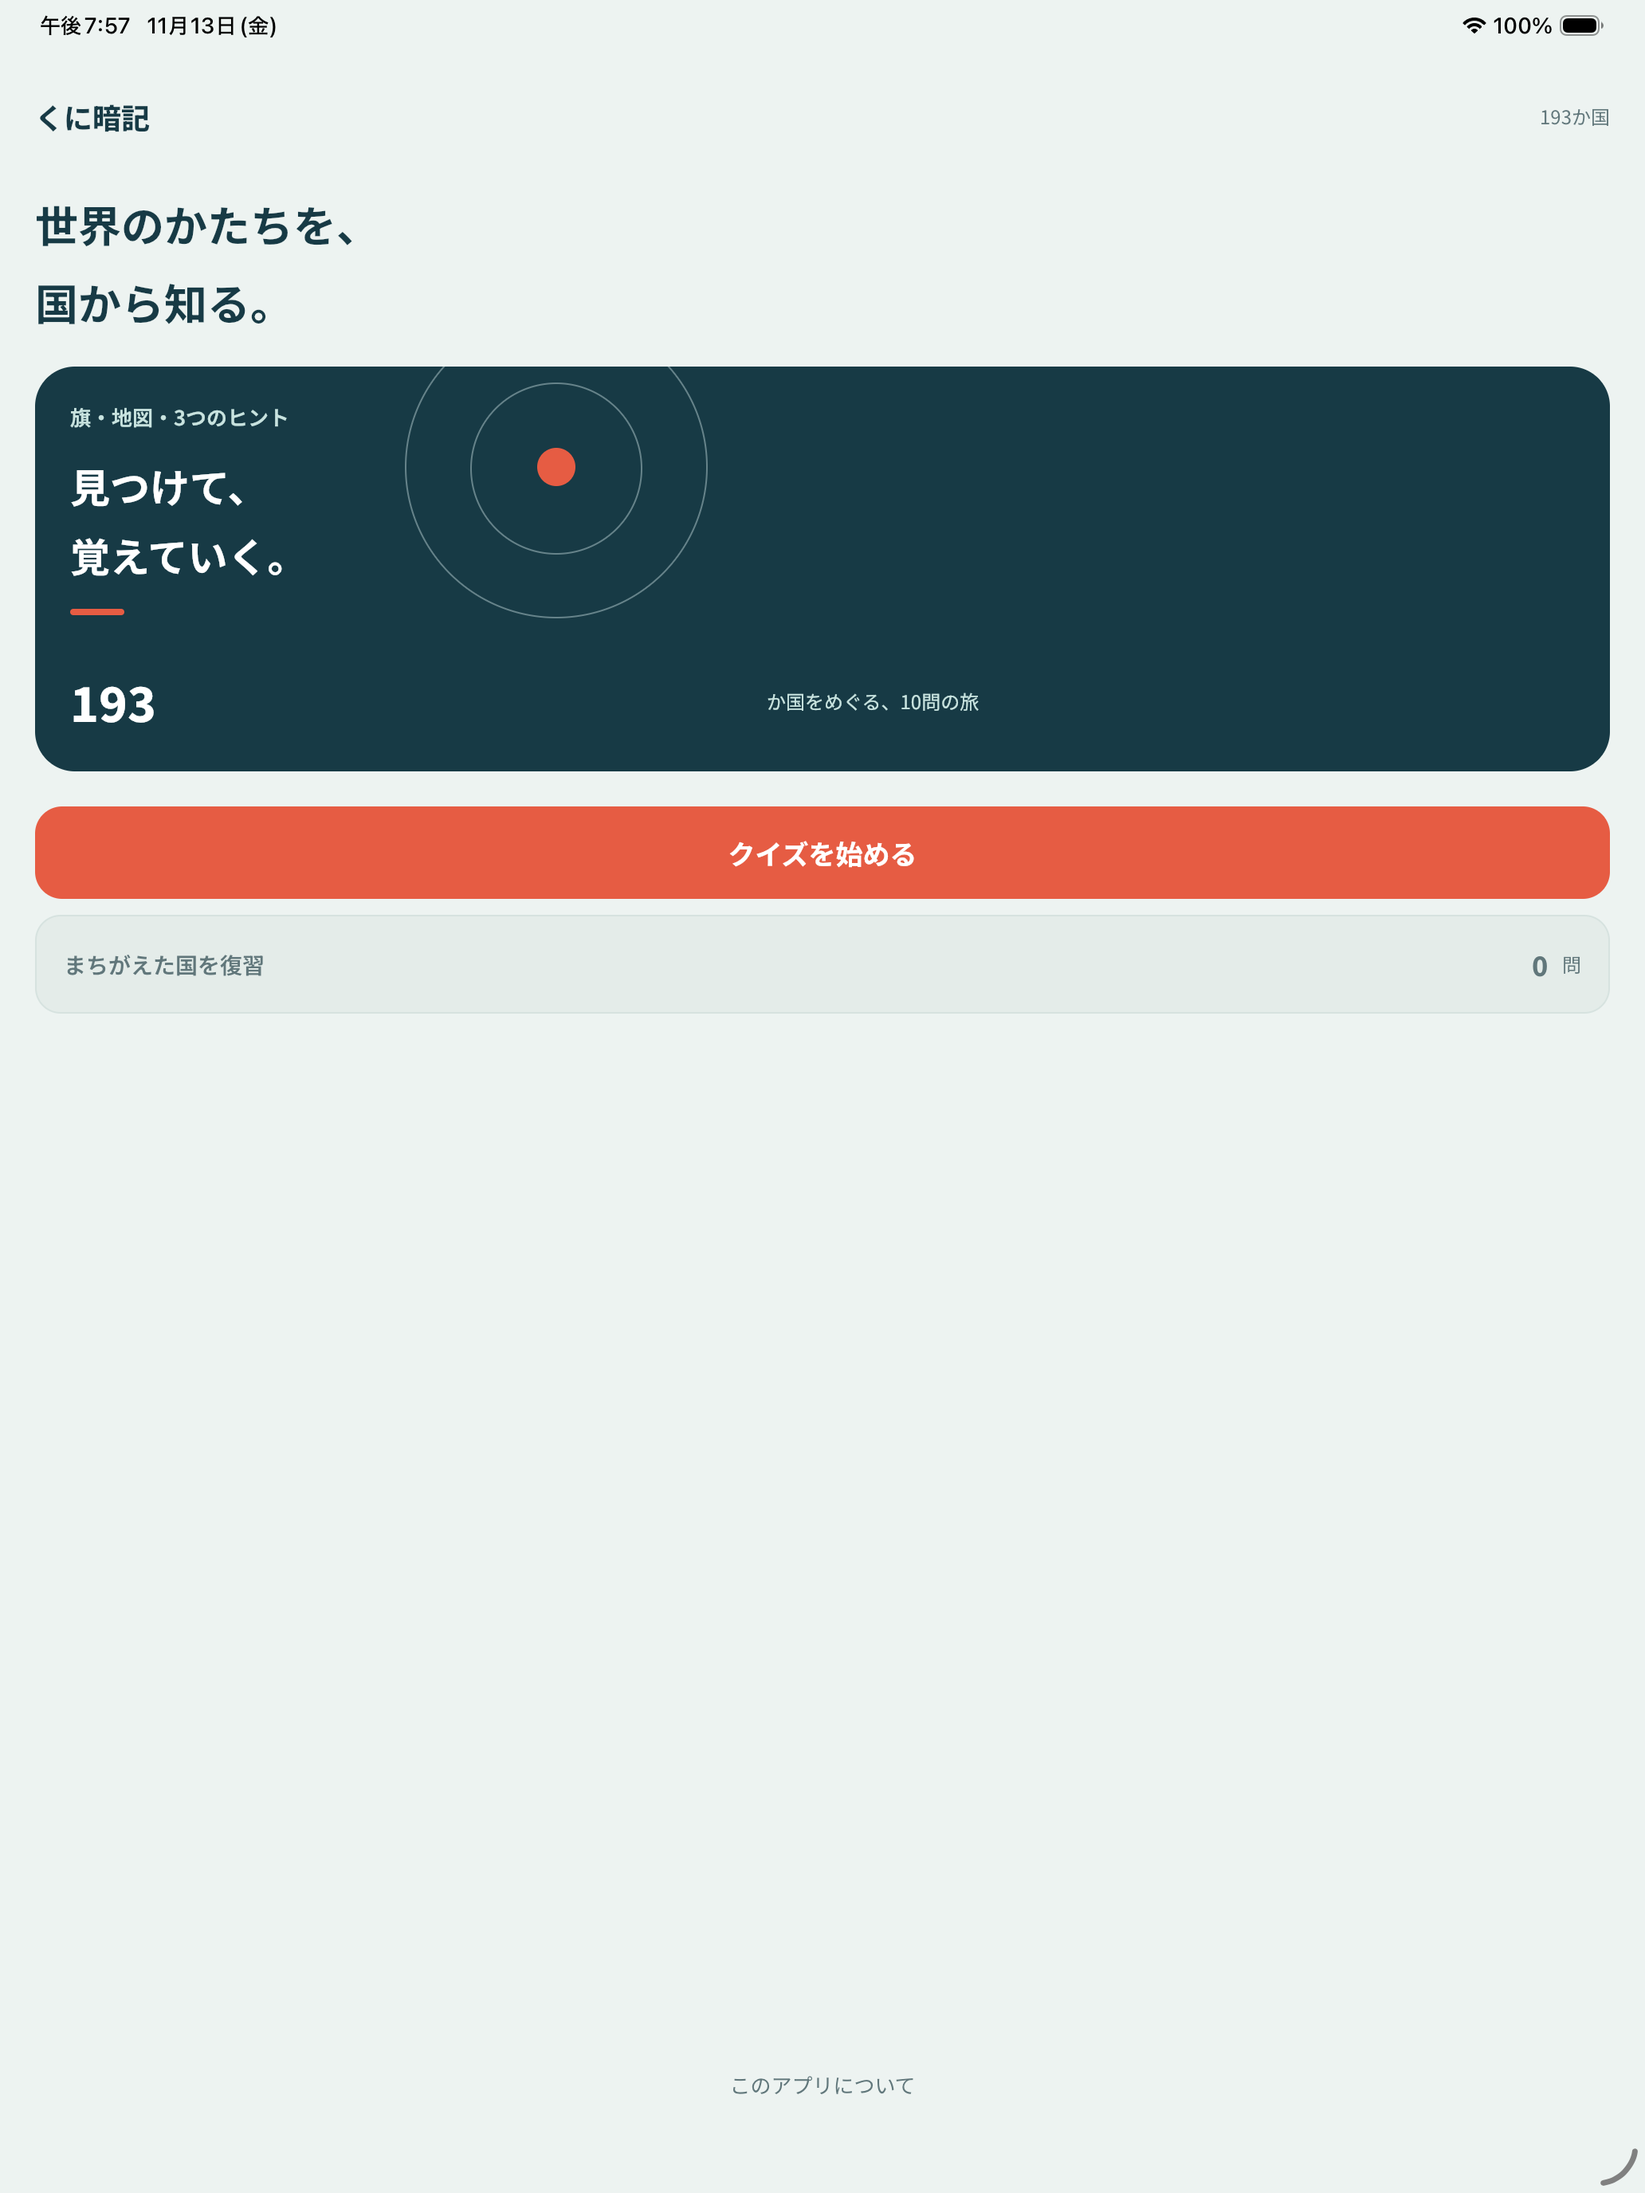
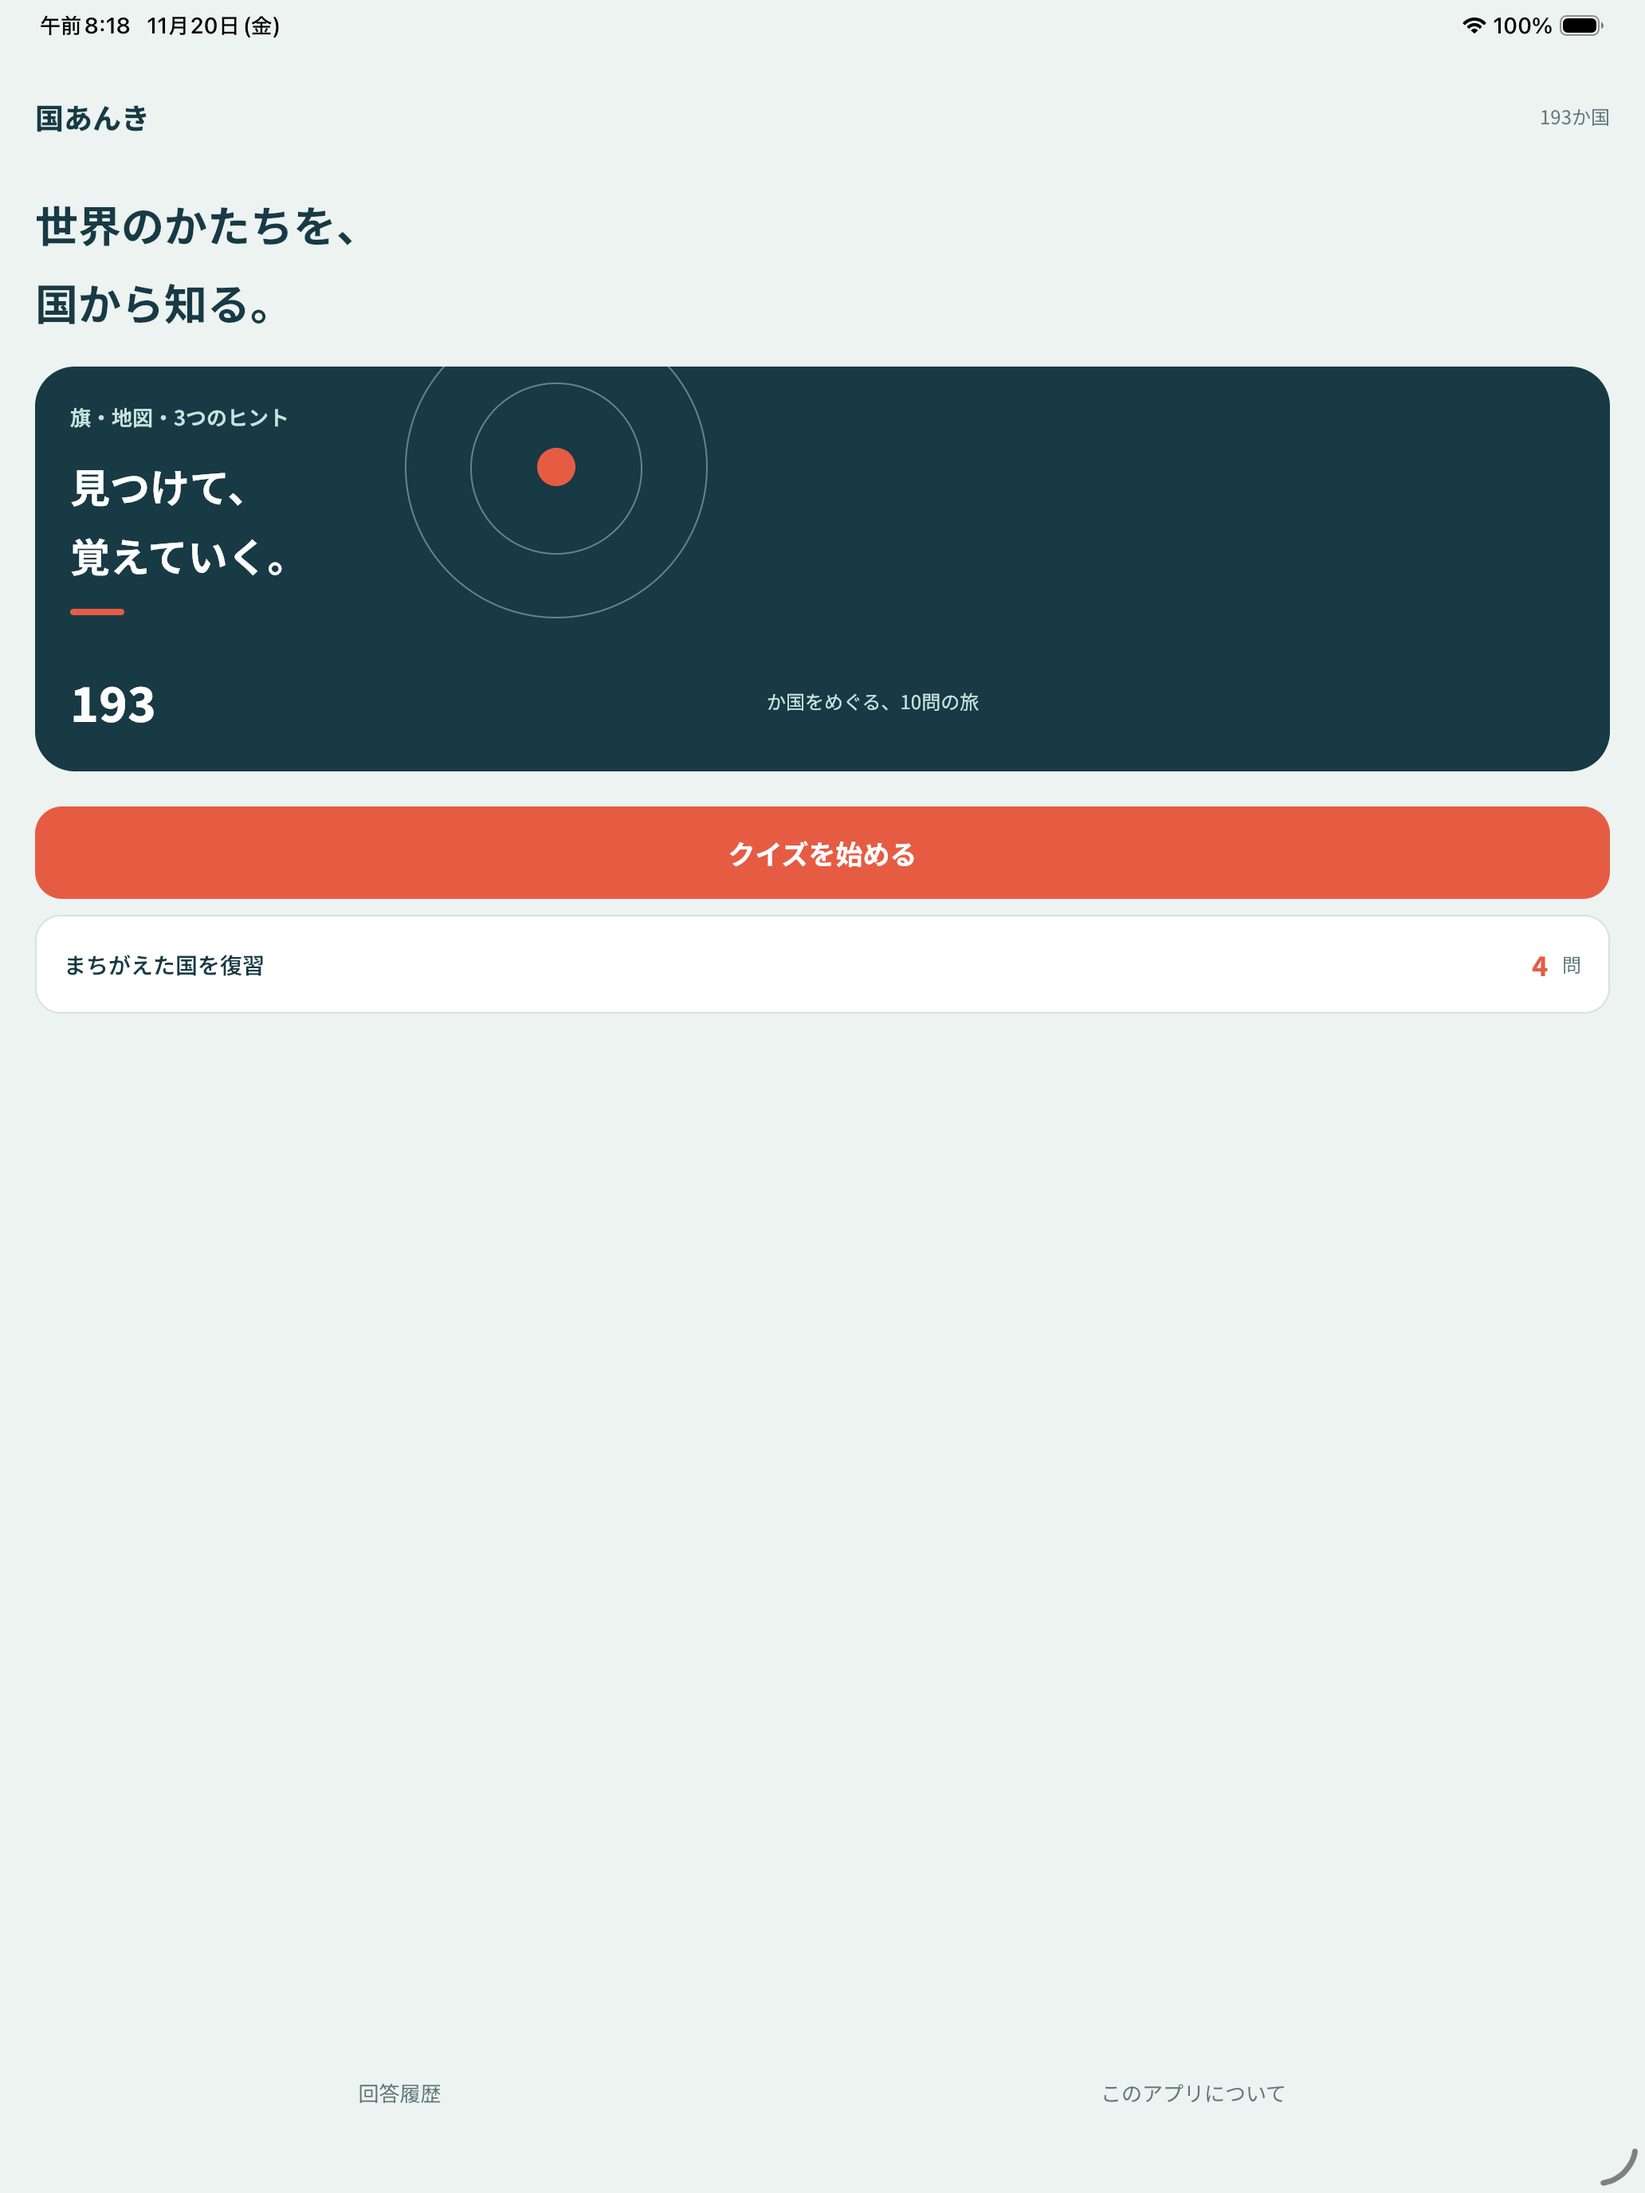
fix: standardize the app name as 国あんき (#24)
## 概要
アプリ内の表記を、既存のストア名「国あんき」に統一する。

## 変更
- ホーム見出し、デスクトップのウィンドウ名、Google Play掲載画像、ドキュメントを更新
- macOSとiPhone／iPadシミュレーターで表示を確認

diff --git a/scripts/subset_font.py b/scripts/subset_font.py
@@ -32,7 +32,7 @@ SOURCE_SHA256 = "c2f3b4d463500a2ddcd3849cded1fceeb9fd6d1c32e6cbecd568453ba50fc68
 
 # These remain explicit even if app/data strings are later reorganized.
 REQUIRED_SAMPLES = {
-    "Japanese UI": "くに暗記、世界のかたち。",
+    "Japanese UI": "国あんき、世界のかたち。",
     "country-name diacritics": "Côte d'Ivoire / São Tomé and Príncipe",
 }
 EXTRA_CHARACTERS = "\u00a0\u2026\u3007"

diff --git a/scripts/gen_icons.py b/scripts/gen_icons.py
@@ -360,7 +360,7 @@ def feature_svg(mark: ET.Element) -> str:
         f'<rect width="1024" height="500" fill="{CANVAS}" />'
         f'{group}'
         '<text x="500" y="306" fill="{ink}" font-family="Noto Sans JP" '
-        'font-size="112" font-weight="700">くに暗記</text>'
+        'font-size="112" font-weight="700">国あんき</text>'
         '</svg>\n'
     ).replace("{ink}", INK)
 

diff --git a/docs/release.md b/docs/release.md
@@ -62,7 +62,7 @@ iPhoneは既存どおりPortraitのみとし、iPadはPortrait、Portrait Upside
 
 ## ストア掲載情報・提出物
 
-日本語の入力原稿は [`google-play.json`](../store/ja-JP/google-play.json) と [`app-store.json`](../store/ja-JP/app-store.json) にあります。アプリ名はストア名・ネイティブ表示名の「国あんき」、画面内表示は既存どおり「くに暗記」です。日本語の説明は国連加盟193か国、国旗・地図・雑学の4択、3段階のヒント、誤答の復習、オフライン、ログイン不要という現行機能に限定しています。
+日本語の入力原稿は [`google-play.json`](../store/ja-JP/google-play.json) と [`app-store.json`](../store/ja-JP/app-store.json) にあります。ストア、ランチャー、アプリ内の表示名は「国あんき」に統一しています。日本語の説明は国連加盟193か国、国旗・地図・雑学の4択、3段階のヒント、誤答の復習、オフライン、ログイン不要という現行機能に限定しています。
 
 | ストア | 掲載欄と上限 | 提出前に用意・確認する項目 |
 | --- | --- | --- |

diff --git a/README.md b/README.md
@@ -1,4 +1,4 @@
-# kunianki
+# 国あんき
 
 A Japanese country quiz built with Rust and Slint.
 
